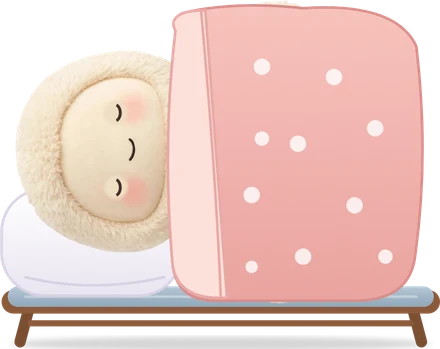
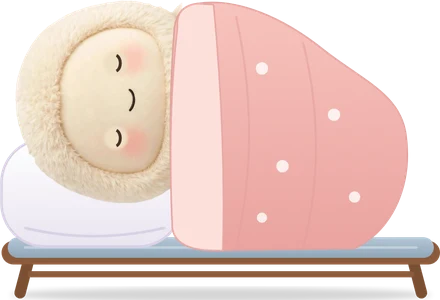
Sleeping Punchy: smaller, form-fitting tapered blanket
Claude-Session: https://claude.ai/code/session_015zikV9PqUBiyz3XPGeiexa

diff --git a/index.html b/index.html
@@ -3749,7 +3749,7 @@ function plushSvg(k, label) { return '<svg viewBox="0 0 200 200" role="img" aria
     var tabTop = shown ? tb.getBoundingClientRect().top : hh;
     document.documentElement.style.setProperty("--tabh", (shown ? hh - tabTop : 0) + "px");
     document.body.setAttribute("data-dock", shown ? "1" : "0");
-    var sw = w <= 600 ? 118 : 150, sh = Math.round(sw * 349 / 440), pw = punchy.pocket ? sw : size, ph = punchy.pocket ? sh : size;
+    var sw = w <= 600 ? 96 : 124, sh = Math.round(sw * 300 / 440), pw = punchy.pocket ? sw : size, ph = punchy.pocket ? sh : size;
     document.documentElement.style.setProperty("--dockw", pw + "px");
     var x = w - pw - 6, y = shown ? hh - ph - 4 : hh - ph - 14;
     var more = shown && tb.querySelector("button[data-tab=more]");
